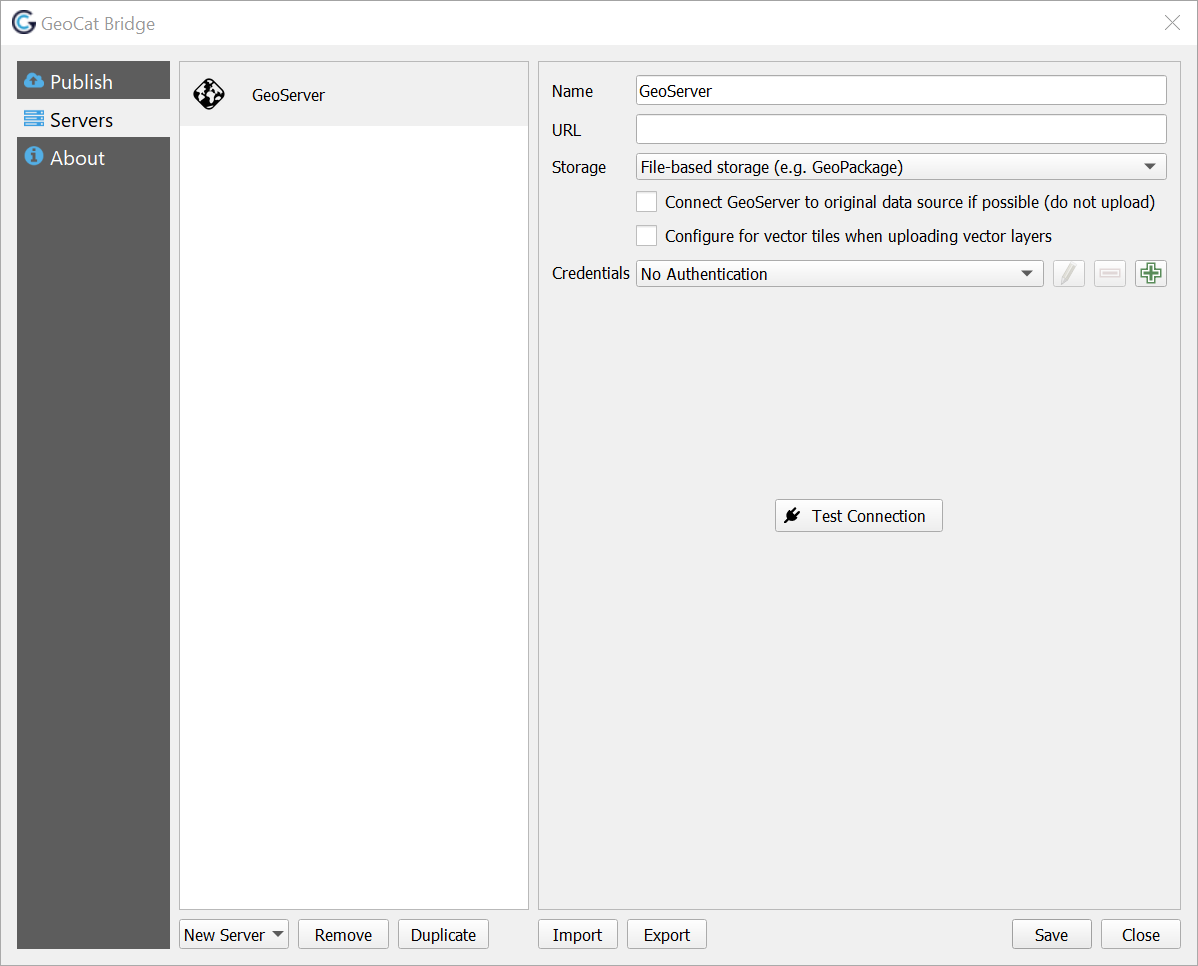
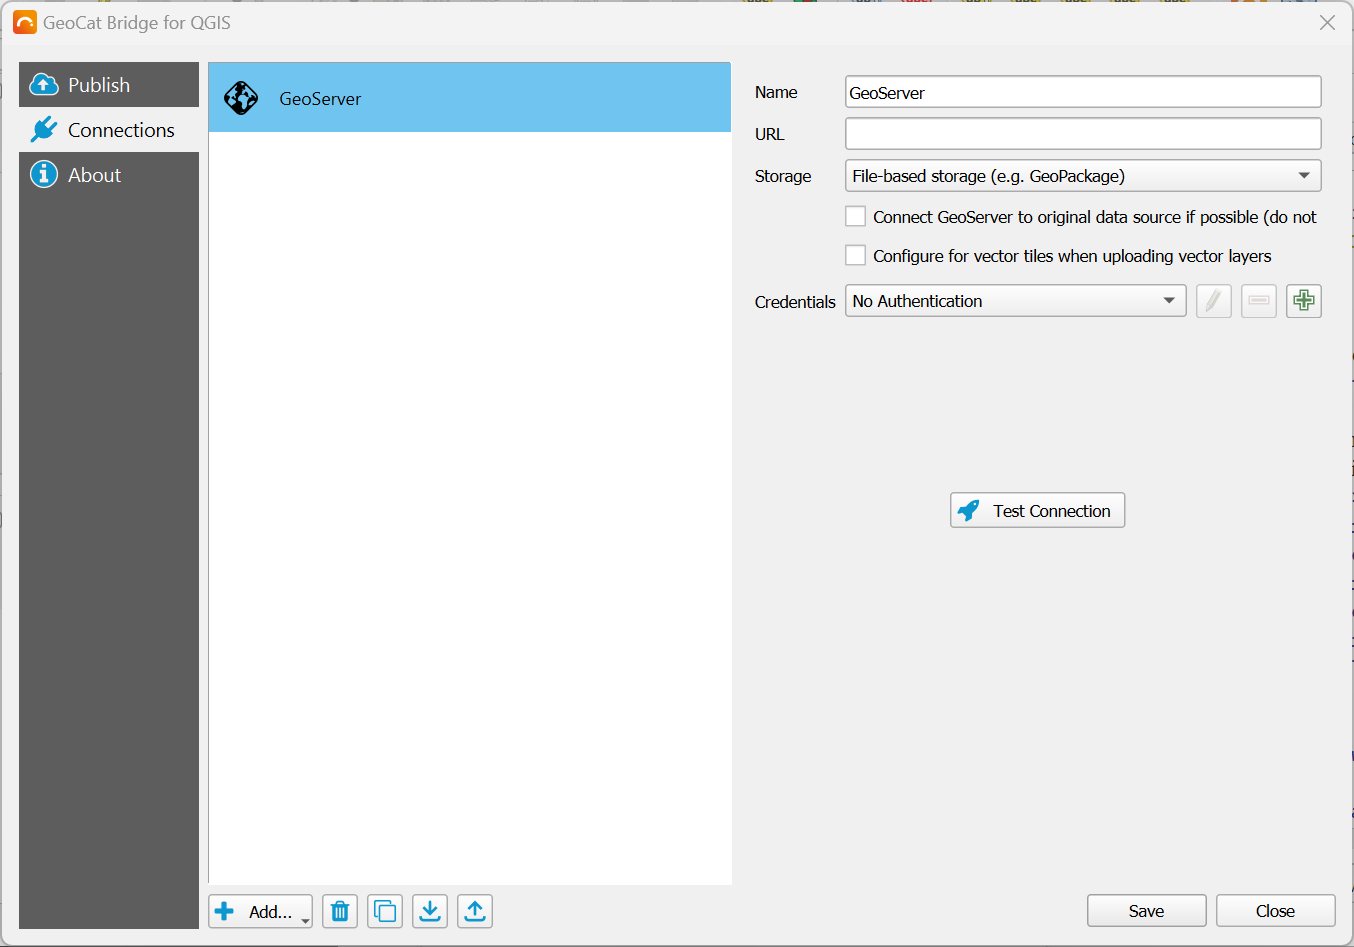
Update docs (wip)

diff --git a/docs/source/styleviewer.rst b/docs/source/styleviewer.rst
@@ -1,31 +1,31 @@
 .. _StyleViewer:
 
-StyleViewer Panel
-=================
+Style Viewer Panel
+==================
 
-|app_name| offers a way to preview a layer style (symbology) in several different formats using the *StyleViewer*.
+|app_name| offers a way to preview a layer style (symbology) in several different formats using the *Style Viewer*.
 
-You can open the *StyleViewer* panel by clicking :guilabel:`StyleViewer` from the |app_name| menu:
+You can open the *Style Viewer* panel by clicking :guilabel:`Bridge Style Viewer` from the |app_name| menu:
 
 .. image:: ./img/styleviewer_menu.png
 
-Alternatively, you can open the panel using :guilabel:`View` > :guilabel:`Panels` > :guilabel:`StyleViewer` in the QGIS menu bar.
+Alternatively, you can open the panel using :guilabel:`View` > :guilabel:`Panels` > :guilabel:`Bridge Style Viewer` in the QGIS menu bar.
 
 A dockable panel will now be displayed (initially on the right side of the screen) that looks similar to this:
 
 .. image:: ./img/styleviewer.png
 
-If you wish to close the *StyleViewer*, click the close button (:guilabel:`x`) in the upper-right corner of the panel
-or uncheck the :guilabel:`View` > :guilabel:`Panels` > :guilabel:`StyleViewer` item in the QGIS menu bar.
+If you wish to close the *Style Viewer*, click the close button (:guilabel:`x`) in the upper-right corner of the panel
+or uncheck the :guilabel:`View` > :guilabel:`Panels` > :guilabel:`Bridge Style Viewer` item in the QGIS menu bar.
 
-Currently, *StyleViewer* supports the following style formats:
+Currently, *Style Viewer* supports the following style formats:
 
 - SLD (XML): used by GeoServer
 - MapServer style (plain text): also known as Mapfile
 - Mapbox style (JSON): used for vector tiles
 - GeoStyler (JSON)
 
-The *StyleViewer* is context-aware, meaning that it will show style previews for the currently selected layer in the QGIS *Layers* panel:
+The *Style Viewer* is context-aware, meaning that it will show style previews for the currently selected layer in the QGIS *Layers* panel:
 
 For more information about how |short_name| handles symbology and which style elements are supported, please read the :ref:`Symbology` section.
 

diff --git a/docs/source/metadata_editing.rst b/docs/source/metadata_editing.rst
@@ -31,7 +31,9 @@ Preview metadata
 
 To see a preview of the metadata of the selected layer, click the |previewmetadata| button.
 
-.. |previewmetadata| image:: ./img/preview_metadata_button.png
+.. |previewmetadata| image:: ../../geocatbridge/images/preview.svg
+                     :height: 16 px
+                     :width: 16 px
 
 This will open a new dialog and render the metadata as a simple HTML webpage:
 
@@ -44,7 +46,9 @@ Metadata validation
 |short_name| can use built-in QGIS validation tools and display the result of the metadata validation.
 Click the |validatemetadata| button to validate your metadata.
 
-.. |validatemetadata| image:: ./img/validation.png 
+.. |validatemetadata| image:: ../../geocatbridge/images/validate.svg
+                      :height: 16 px
+                      :width: 16 px
 
 After validation a dialog with the results is displayed:
 
@@ -58,7 +62,9 @@ If your layer has metadata in ISO19139 or ESRI-ISO (ISO19115 or FGDC) format, an
 | QGIS only has native support for its own `qmd` format. However, |short_name| is able to import the metadata.
 | Select the layer in the |short_name| dialog and click the |loadmetadata| button.
 
-.. |loadmetadata| image:: ./img/loadmetadata.png 
+.. |loadmetadata| image:: ../../geocatbridge/images/import.svg
+                  :height: 16 px
+                  :width: 16 px
 
 | |short_name| will look in the folder where the layer file is stored and try to find a metadata file named either `[layer_filename].[extension].xml` or `[layer_filename].xml`.
 | For example, for a layer data source named `countries.shp`, it will search for both `countries.shp.xml` and `countries.xml`.

diff --git a/docs/source/quickstart.rst b/docs/source/quickstart.rst
@@ -24,18 +24,18 @@ Find and click the |short_name| button in the QGIS Web Toolbar:
 The |short_name| dialog should now appear. First-time users may see the :guilabel:`About` panel, while others will
 probably see the :guilabel:`Publish` panel instead.
 
-Step 2: go to servers panel
----------------------------
+Step 2: go to Connections panel
+-------------------------------
 
-Click on :guilabel:`Servers` in the left sidebar. If no servers have been configured so far, this should show the
+Click on :guilabel:`Connections` in the left sidebar. If no servers have been configured so far, this should show the
 following panel:
 
     .. image:: ./img/quickstart_servers.png
 
-Step 3: add new server
-----------------------
+Step 3: add new connection
+--------------------------
 
-Click the :guilabel:`New Server` button on the lower left corner of the :guilabel:`Servers` panel and select :guilabel:`GeoServer`:
+Click the :guilabel:`Add...` button on the lower left corner of the :guilabel:`Connections` panel and select :guilabel:`GeoServer`:
 
     .. image:: ./img/quickstart_newserver.png
 
@@ -106,7 +106,7 @@ Step 9: save configuration
 --------------------------
 
 Save your GeoServer configuration by clicking the :guilabel:`Save` button in the lower right corner of the
-:guilabel:`Servers` panel.
+:guilabel:`Connections` panel.
 
 You are now ready to publish some layers!
 

diff --git a/docs/source/bridge_dialog.rst b/docs/source/bridge_dialog.rst
@@ -2,24 +2,19 @@ The |short_name| Dialog
 =======================
 
 Most of the interaction with |app_name| is done through the |short_name| dialog.
-To open it, select the `Publish` button on the `Web toolbar` or look for it under the |menu_name| menu.
+To open it, select the `Bridge Publisher` button on the `Web toolbar` or look for it under the |menu_name| menu.
 
 .. image:: ./img/bridgemenuentry.png
 
-The first time you open the |short_name| dialog, you will see a landing page with information about
-|short_name| and other |publisher| products. Follow the corresponding links to find out more about these
-products and how they can be used with |short_name|.
+The first time you open the |short_name| dialog, it should display the `About` panel that shows some information
+about your current |short_name| version, and contains some useful links.
 
 .. image:: ./img/first_time.png
-
-
-.. tip::   At the bottom of the `About` panel, it should display the |app_name| version that you are currently running.
-
 
 As you can see, there are 2 more panels besides the `About` panel mentioned above:
 
 - Publish
-- Servers
+- Connections
 
 We will have closer look at these panels on the following pages.
 

diff --git a/docs/source/server_configuration.rst b/docs/source/server_configuration.rst
@@ -4,7 +4,7 @@ Server Connections
 ==================
 
 Before you can publish data with |app_name|, you will have to configure one or more server connections.
-This can be achieved in the *Servers* section of the |short_name| dialog:
+This can be achieved in the :guilabel:`Connections` section of the |short_name| dialog:
 
 .. image:: ./img/servers.png
 
@@ -12,7 +12,7 @@ This can be achieved in the *Servers* section of the |short_name| dialog:
 Adding connections
 ##################
 
-Click :guilabel:`New Server` and choose one of the supported server types to create a new server connection:
+Click :guilabel:`Add...` and choose one of the supported server types to create a new server connection:
 
 - GeoServer
 - MapServer
